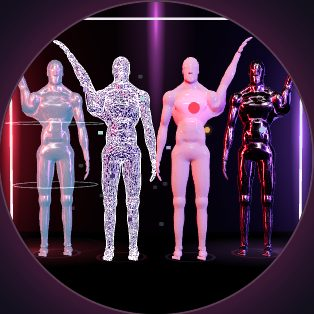
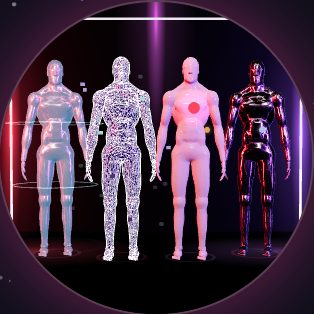
Lower the siblings' arms (#10)
* Add EMAC's siblings floating button and dialog, and a dark/light mode toggle

A round button under the hero title sends out red and violet pulse rings and shows
four characters from the character studio (Suha, Nabd, Khwarizmi, Ghad) waving under
xenon lights; it opens the "إخوة إيماك" dialog with a larger stage and a card per
sibling. A theme switch next to the language link remembers the visitor's choice.
en.html is rebuilt from index.html, and the build now carries the Lumina Mall text.

Claude-Session: https://claude.ai/code/session_01YH6DknenScGareX4oQLwHW

* Show the siblings' greeting picture in the round button and the dialog right away

A still frame of the four siblings waving now sits inside the circle and the
«إخوة إيماك» stage as soon as the page opens, so they are visible even before
or without 3D. The 3D scene now loads on its own instead of waiting for the hero
body, each sibling waves with the outer hand so arms no longer cross a neighbour,
and visitors who prefer reduced motion see the arms raised.

Claude-Session: https://claude.ai/code/session_01YH6DknenScGareX4oQLwHW

* Add the siblings' greeting pictures and rebuild en.html

Claude-Session: https://claude.ai/code/session_01YH6DknenScGareX4oQLwHW

* Fit the whole siblings picture in the dialog on phones

Claude-Session: https://claude.ai/code/session_01YH6DknenScGareX4oQLwHW

* Lower the siblings' arms in the 3D scene and the still pictures
[…]

diff --git a/siblings.js b/siblings.js
@@ -232,7 +232,7 @@ function render() {
   if (!still) t += dt;
   U.uT.value = still ? .4 : t;
   figs.forEach((f, i) => {
-    const want = active < 0 ? greet(t, i) : (i === active ? 1 : .0);
+    const want = 0; // arms rest at the sides (anas asked to lower them)
     f.up = still ? want : f.up + (want - f.up) * Math.min(1, dt * (active < 0 ? 60 : 6));
     f.mats.forEach(m => { m.userData.u.uUp.value = f.up; });
     f.focus += ((i === active ? 1 : 0) - f.focus) * Math.min(1, dt * 6);
